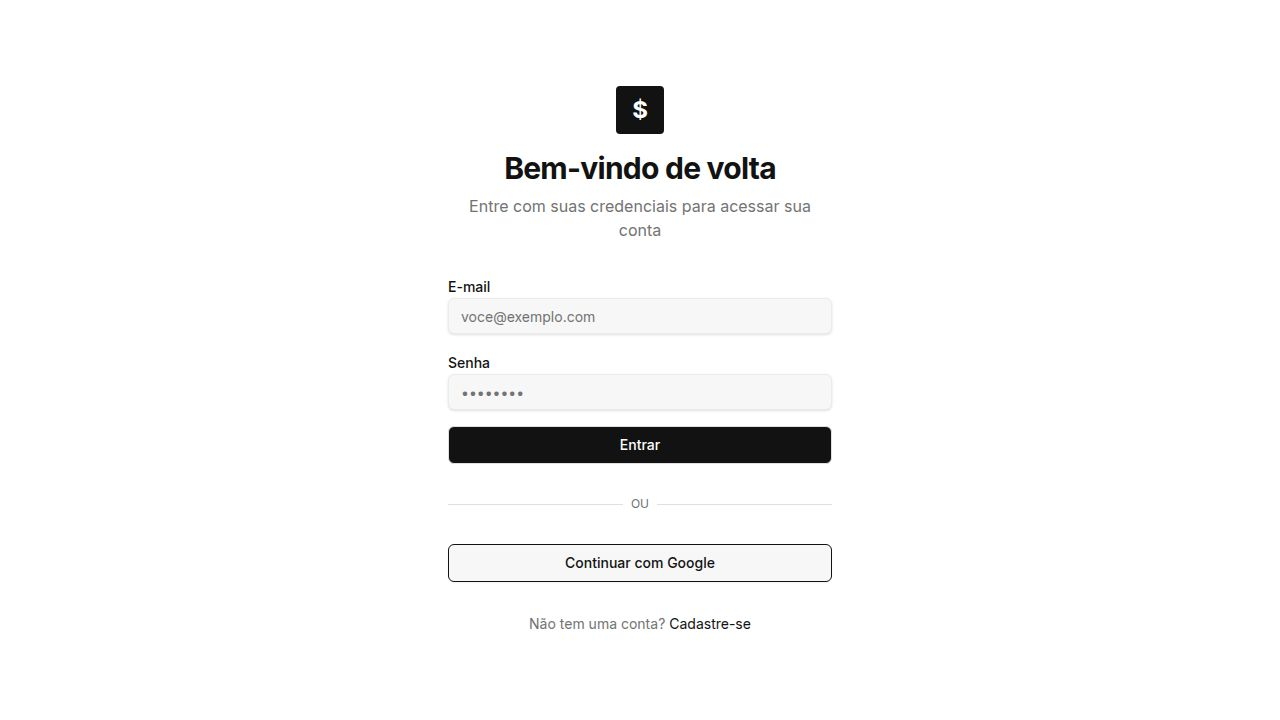
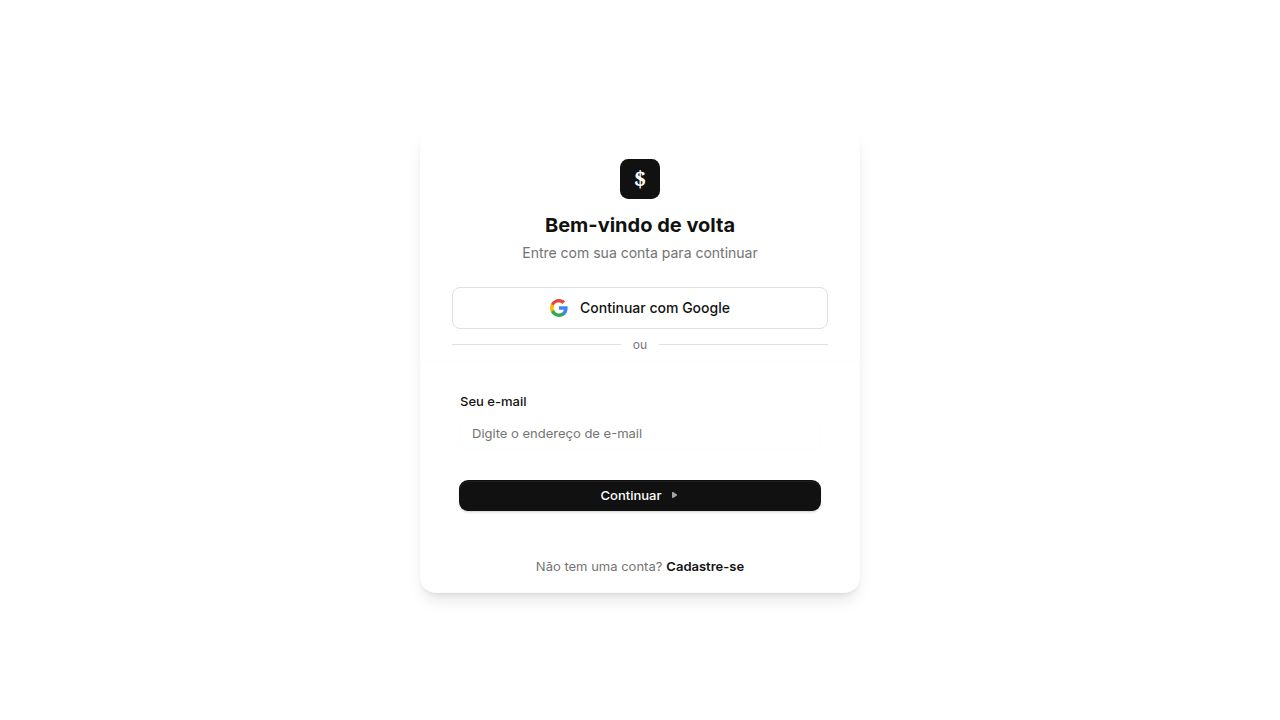
Fix Google login button to work correctly
Replaced legacy Clerk hooks with a stable hook for OAuth flow, resolving hook order issues and enabling Google sign-in.

Replit-Commit-Author: Agent
Replit-Commit-Session-Id: 2ba68934-34bc-4d6b-92a4-2a8c7d03f46c
Replit-Commit-Checkpoint-Type: full_checkpoint
Replit-Commit-Event-Id: 35ed4b03-79ef-4093-9c0e-c9d5351e5253
Replit-Commit-Screenshot-Url: https://storage.googleapis.com/screenshot-production-us-central1/5fe863fb-e660-4ec3-9792-ac9d118e4cf2/2ba68934-34bc-4d6b-92a4-2a8c7d03f46c/snNtDhv
Replit-Helium-Checkpoint-Created: true

diff --git a/artifacts/poupamaix/src/App.tsx b/artifacts/poupamaix/src/App.tsx
@@ -2,7 +2,6 @@ import { lazy, Suspense, useEffect, useRef, useState } from "react";
 import { Switch, Route, Router as WouterRouter, useLocation, Redirect } from "wouter";
 import { QueryClient, QueryClientProvider, useQueryClient } from "@tanstack/react-query";
 import { ClerkProvider, SignIn, SignUp, useClerk } from "@clerk/react";
-import { useSignIn, useSignUp } from "@clerk/react/legacy";
 import { ptBR } from "@clerk/localizations";
 import { publishableKeyFromHost } from "@clerk/react/internal";
 import { shadcn } from "@clerk/themes";
@@ -243,8 +242,7 @@ const googleIcon = (
 );
 
 function GoogleRedirectButton({ mode }: { mode: "signIn" | "signUp" }) {
-  const { signIn, isLoaded: signInLoaded } = useSignIn();
-  const { signUp, isLoaded: signUpLoaded } = useSignUp();
+  const clerk = useClerk() as any;
   const [loading, setLoading] = useState(false);
 
   const handleClick = async () => {
@@ -252,14 +250,11 @@ function GoogleRedirectButton({ mode }: { mode: "signIn" | "signUp" }) {
     try {
       const redirectUrl = `${window.location.origin}${basePath}/sign-in/sso-callback`;
       const redirectUrlComplete = `${window.location.origin}${basePath}/dashboard`;
-      if (mode === "signIn" && signIn) {
-        await (signIn as any).create({
-          strategy: "oauth_google",
-          redirectUrl,
-          actionCompleteRedirectUrl: redirectUrlComplete,
-        });
-      } else if (mode === "signUp" && signUp) {
-        await (signUp as any).create({
+      const resource = mode === "signIn"
+        ? clerk?.client?.signIn
+        : clerk?.client?.signUp;
+      if (resource?.create) {
+        await resource.create({
           strategy: "oauth_google",
           redirectUrl,
           actionCompleteRedirectUrl: redirectUrlComplete,
@@ -270,13 +265,11 @@ function GoogleRedirectButton({ mode }: { mode: "signIn" | "signUp" }) {
     }
   };
 
-  const isLoaded = mode === "signIn" ? signInLoaded : signUpLoaded;
-
   return (
     <button
       type="button"
       onClick={handleClick}
-      disabled={!isLoaded || loading}
+      disabled={loading}
       className="w-full flex items-center justify-center gap-3 px-4 py-2.5 rounded-lg border border-[#e0e0e0] bg-white hover:bg-[#f5f5f5] transition-colors text-sm font-medium text-[#111111] disabled:opacity-60 disabled:cursor-not-allowed"
     >
       {loading ? (